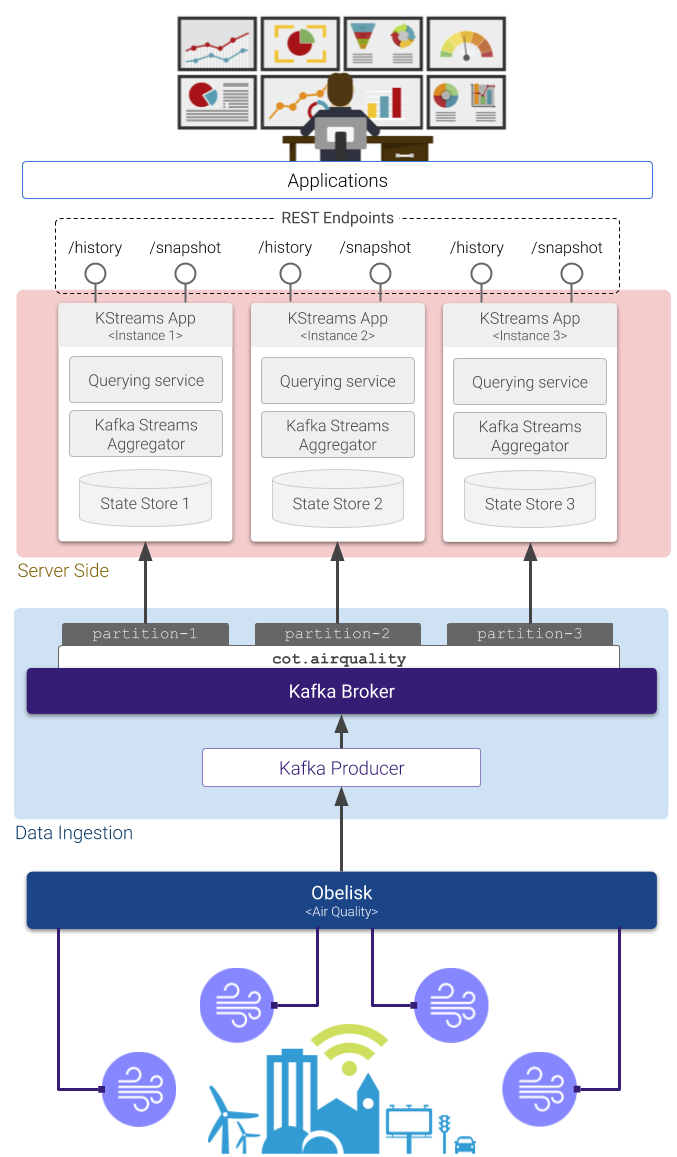
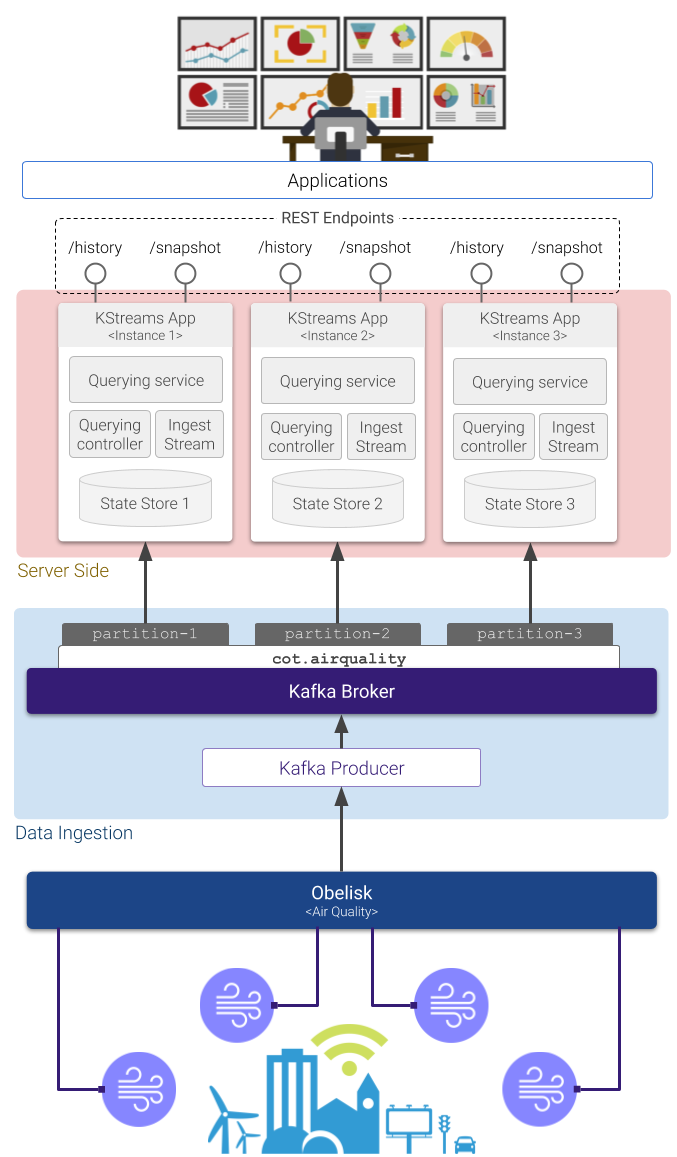
Update architecture diagram

Changed region(s): [[0.6824, 0.3423, 0.8996, 0.4045], [0.4032, 0.3423, 0.6204, 0.4045], [0.1241, 0.3423, 0.3412, 0.4045]]

diff --git a/src/main/java/ingestion/IngestStream.java b/src/main/java/ingestion/IngestStream.java
@@ -251,27 +251,6 @@ public class IngestStream {
         ).filter(
                 (metricId, reading) -> aQMetrics.contains(metricId)
         );
-        //.to("cot."+METRIC_ID.replace("::","."), Produced.with(Serdes.String(), aQSerde));
-        //filteredStream.to("airquality-metric-key", Produced.with(Serdes.String(), aQSerde));
-        //filteredStream.peek((key, reading) -> System.out.println(key + ": " + reading));
-        //.print(Printed.toSysOut());
-
-        //final int finalGeohashPrecision = geohashPrecision;
-
-//        KStream<String, AirQualityKeyedReading> airQualityKeyedStream = filteredStream.map(
-//                (metricId, reading) -> KeyValue.pair(reading.getGeohash() + "#" + toFormattedTimestamp(reading.getTimestamp(), ZoneId.systemDefault()), new AirQualityKeyedReading(
-//                        reading.getTsReceivedMs(),
-//                        reading.getMetricId(),
-//                        reading.getTimestamp(),
-//                        reading.getSourceId(),
-//                        reading.getGeohash(),
-//                        reading.getH3Index(),
-//                        reading.getElevation(),
-//                        reading.getValue(),
-//                        reading.getTimeUnit(),
-//                        reading.getGeohash() + "#" + toFormattedTimestamp(reading.getTimestamp(), ZoneId.systemDefault())
-//                ))
-//        );
 
         assert aQMetrics != null;
 
@@ -345,26 +324,6 @@ public class IngestStream {
                                 }
                         ).groupByKey();
 
-//                KGroupedStream<String, AirQualityReading> perYearKeyedStream = filteredStream.selectKey(
-//                        (metricId, reading) -> {
-//                            ZonedDateTime readingDate = ZonedDateTime.ofInstant(Instant.ofEpochMilli(reading.getTimestamp()), ZoneId.systemDefault());
-//                            String yearTimestamp = readingDate.truncatedTo(ChronoUnit.DAYS).withDayOfYear(1).toLocalDateTime().format(DATE_TIME_FORMATTER);
-//                            return reading.getGeohash().substring(0, gh) + "#" + yearTimestamp;
-//                        }
-//                ).groupByKey();
-
-                //perMinKeyedStream.peek((key, reading) -> System.out.println(key + ": " + reading));
-                //perHourKeyedStream.peek((key, reading) -> System.out.println(key + ": " + reading));
-                //perDayKeyedStream.peek((key, reading) -> System.out.println(key + ": " + reading));
-                //perMonthKeyedStream.peek((key, reading) -> System.out.println(key + ": " + reading));
-                //perYearKeyedStream.peek((key, reading) -> System.out.println(key + ": " + reading));
-
-                // Generate KTables with continuous aggregates for each time resolution
-        /*KTable<String, AirQualityReading> airQualityKTable = airQualityKeyedStream.groupByKey().reduce(
-                (aggReading, newReading) -> newReading,
-                Materialized.<String, AirQualityReading, KeyValueStore<Bytes, byte[]>>as("raw-" + finalMetricId.replace("::", ".")).withValueSerde(aQSerde)
-        );*/
-
                 KTable<String, AggregateValueTuple> perMinAggregate = perMinKeyedStream.aggregate(
                         () -> new AggregateValueTuple("", "", 0L, 0L, 0.0, 0.0),
                         (key, value, aggregate) -> airQReadingAggregator(key, value, aggregate),
@@ -389,29 +348,6 @@ public class IngestStream {
                         Materialized.<String, AggregateValueTuple, KeyValueStore<Bytes, byte[]>>as("view-" + aQMetricId.replace("::", ".") + "-gh" + precision + "-month").withValueSerde(aggSerde).withCachingEnabled()
                 );
 
-//            KTable<String, AggregateValueTuple> perYearAggregate = perYearKeyedStream.aggregate(
-//                    () -> new AggregateValueTuple("", "", 0L, 0L, 0.0, 0.0),
-//                    (key, value, aggregate) -> airQReadingAggregator(key, value, aggregate),
-//                    Materialized.<String, AggregateValueTuple, KeyValueStore<Bytes, byte[]>>as("view-" + aQMetricId.replace("::", ".") + "-gh" + gh + "-year").withValueSerde(aggSerde).withCachingEnabled()
-//            );
-
-                // Get streams from KTables to peek into them (to check if they are working as expected)
-
-            /*airQualityKTable.toStream().peek((key, reading) -> System.out.println("[RAW] --" + key + ": " + reading));
-            perMinAggregate.toStream().peek((key, aggregate) -> System.out.println("[MIN] --" + key + ": " + aggregate));
-            perHourAggregate.toStream().peek((key, aggregate) -> System.out.println("[HOUR] --" + key + ": " + aggregate));
-            perDayAggregate.toStream().peek((key, aggregate) -> System.out.println("[DAY] --" + key + ": " + aggregate));
-            perMonthAggregate.toStream().peek((key, aggregate) -> System.out.println("[MONTH] --" + key + ": " + aggregate));
-            perYearAggregate.toStream().peek((key, aggregate) -> System.out.println("[YEAR] --" + key + ": " + aggregate));*/
-
-                // Store KTables as kafka topics (changelog stream)
-
-//            airQualityKeyedStream.to("raw-" + aQMetricId.replace("::", "."), Produced.with(Serdes.String(), aQKSerde));
-//            perMinAggregate.toStream().to("view-" + aQMetricId.replace("::", ".") + "-gh" + gh + "-min", Produced.with(Serdes.String(), aggSerde));
-//            perHourAggregate.toStream().to("view-" + aQMetricId.replace("::", ".") + "-gh" + gh + "-hour", Produced.with(Serdes.String(), aggSerde));
-//            perDayAggregate.toStream().to("view-" + aQMetricId.replace("::", ".") + "-gh" + gh + "-day", Produced.with(Serdes.String(), aggSerde));
-//            perMonthAggregate.toStream().to("view-" + aQMetricId.replace("::", ".") + "-gh" + gh + "-month", Produced.with(Serdes.String(), aggSerde));
-//            perYearAggregate.toStream().to("view-" + aQMetricId.replace("::", ".") + "-gh" + gh + "-year", Produced.with(Serdes.String(), aggSerde));
             }
         }
 

diff --git a/src/main/java/querying/QueryingController.java b/src/main/java/querying/QueryingController.java
@@ -278,22 +278,6 @@ public class QueryingController {
                         (a1, a2) -> new Aggregate(a1.count + a2.count, a1.sum + a2.sum, (a1.sum + a2.sum)/(a1.count + a2.count)));
             }
         }
-//        final String fromK = StringUtils.rightPad(StringUtils.truncate(geohashPrefix, geohashPrecision), geohashPrecision, "0") + "#" + toFormattedTimestamp(ts, ZoneId.systemDefault());
-//        final String toK = StringUtils.rightPad(StringUtils.truncate(geohashPrefix, geohashPrecision), geohashPrecision, "z") + "#" + toFormattedTimestamp(ts, ZoneId.systemDefault());
-//        System.out.println("fromK: " + fromK);
-//        System.out.println("toK: " + toK);
-//        Map<String, Aggregate> aggregateReadings = new TreeMap<>();
-//        KeyValueIterator<String, AggregateValueTuple> iterator =  viewStore.range(fromK, toK);
-//        while (iterator.hasNext()) {
-//            KeyValue<String, AggregateValueTuple> aggFromStore = iterator.next();
-//            if(!aggFromStore.value.ts.equals(ts)) {
-//                continue;
-//            }
-//            System.out.println("Aggregate for " + aggFromStore.key + ": " + aggFromStore.value);
-//            Aggregate agg = new Aggregate(aggFromStore.value.count, aggFromStore.value.sum, aggFromStore.value.avg);
-//            aggregateReadings.merge(aggFromStore.value.gh, agg,
-//                    (a1, a2) -> new Aggregate(a1.count + a2.count, a1.sum + a2.sum, (a1.sum + a2.sum)/(a1.count + a2.count)));
-//        }
         return aggregateReadings;
     }
 

diff --git a/src/main/java/querying/QueryingService.java b/src/main/java/querying/QueryingService.java
@@ -231,13 +231,11 @@ public class QueryingService {
 
     private <T> Response prepareResponse(String aggregate, Map payload, Map metadata, List<String> columns, Boolean local, GenericType<T> keyType){
         if (!local) {
-//                Map<Long, Double> finalResults = new TreeMap<>();
             List data = new ArrayList();
 //            System.out.println("[prepareResponse] Incoming payload: " + payload);
             payload.forEach((key, value) -> {
                 try {
                     data.add(Arrays.asList(key, value.getClass().getField(aggregate).get(value)));
-//                        finalResults.put(key, (Double) value.getClass().getField(aggregate).get(value));
                 } catch (NoSuchFieldException | IllegalAccessException ex) {
                     ex.printStackTrace();
                     Response errorResp = Response.status(Response.Status.BAD_REQUEST)
